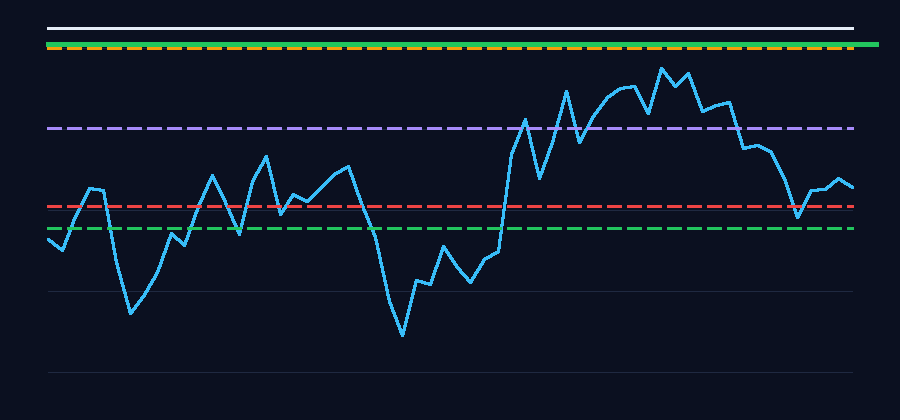
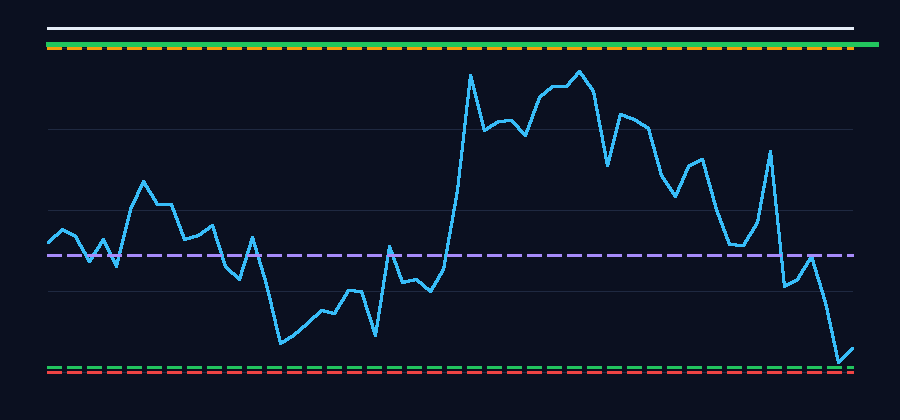
Deploy dashboard from phemex-grid-ai@b7e9593da10271ce2929b4c0a83c37cc3e0da204

Changed region(s): [[0.0311, 0.1548, 0.9644, 0.8976], [0.3422, 0.7429, 0.3733, 0.7738]]

diff --git a/dashboard/index.html b/dashboard/index.html
@@ -134,11 +134,11 @@
       <div class="stats-grid">
         <div class="stat">
           <label>Current Equity</label>
-          <value class="negative">755.07 USDT</value>
+          <value class="negative">739.49 USDT</value>
         </div>
         <div class="stat">
           <label>Total PnL</label>
-          <value class="large negative">-244.93 (-24.5%)</value>
+          <value class="large negative">-260.51 (-26.1%)</value>
         </div>
         <div class="stat">
           <label>Starting</label>
@@ -153,21 +153,21 @@
         <svg viewBox="0 0 400 160" preserveAspectRatio="none">
           <line x1="0" y1="13.3" x2="400" y2="13.3" stroke="#9497a9" stroke-width="1" stroke-dasharray="4,4" opacity="0.5"/>
     <text x="8" y="9.333333333333314" fill="#9497a9" font-size="10">Start: 1000</text>
-    <polygon points="0.0,21.9 18.2,30.4 36.4,38.7 54.5,46.9 72.7,54.7 90.9,62.4 109.1,70.8 127.3,79.1 145.5,87.2 163.6,90.5 181.8,97.7 200.0,104.9 218.2,106.7 236.4,114.2 254.5,114.8 272.7,121.1 290.9,128.6 309.1,131.6 327.3,127.1 345.5,133.6 363.6,140.0 381.8,146.7 400.0,146.7 400,160 0,160" fill="#d92d2022"/>
-    <polyline points="0.0,21.9 18.2,30.4 36.4,38.7 54.5,46.9 72.7,54.7 90.9,62.4 109.1,70.8 127.3,79.1 145.5,87.2 163.6,90.5 181.8,97.7 200.0,104.9 218.2,106.7 236.4,114.2 254.5,114.8 272.7,121.1 290.9,128.6 309.1,131.6 327.3,127.1 345.5,133.6 363.6,140.0 381.8,146.7 400.0,146.7" fill="none" stroke="#d92d20" stroke-width="2.5" stroke-linecap="round" stroke-linejoin="round"/>
+    <polygon points="0.0,21.4 16.7,29.3 33.3,37.2 50.0,44.9 66.7,52.3 83.3,59.5 100.0,67.4 116.7,75.2 133.3,82.8 150.0,85.9 166.7,92.7 183.3,99.4 200.0,101.1 216.7,108.1 233.3,108.7 250.0,114.7 266.7,121.7 283.3,124.5 300.0,120.3 316.7,126.4 333.3,132.4 350.0,138.7 366.7,140.7 383.3,146.7 400.0,146.7 400,160 0,160" fill="#d92d2022"/>
+    <polyline points="0.0,21.4 16.7,29.3 33.3,37.2 50.0,44.9 66.7,52.3 83.3,59.5 100.0,67.4 116.7,75.2 133.3,82.8 150.0,85.9 166.7,92.7 183.3,99.4 200.0,101.1 216.7,108.1 233.3,108.7 250.0,114.7 266.7,121.7 283.3,124.5 300.0,120.3 316.7,126.4 333.3,132.4 350.0,138.7 366.7,140.7 383.3,146.7 400.0,146.7" fill="none" stroke="#d92d20" stroke-width="2.5" stroke-linecap="round" stroke-linejoin="round"/>
         </svg>
       </div>
     </div>
 
     <div class="panel">
       <h2>Open Position</h2>
-      <div class='position-card'><div class='position-row'><div class='position-main'><span class='side-badge '>LONG</span><div class='position-details'><span>Qty: 0.07907735</span><span>Entry: 80,846</span><span>Current: 80,846</span></div></div><span class='position-pnl '>+0.00 (+0.0%)</span></div></div>
+      <div class='position-card'><div class='position-row'><div class='position-main'><span class='side-badge '>LONG</span><div class='position-details'><span>Qty: 0.07106086</span><span>Entry: 81,146</span><span>Current: 81,146</span></div></div><span class='position-pnl '>+0.00 (+0.0%)</span></div></div>
     </div>
 
     <div class="panel">
       <h2>Recent Trades</h2>
       <div class="trades-container">
-        <div class='trade-row'><span class='side negative'>LONG</span><span class='prices'>80,306→80,277</span><span class='pnl negative'>-3.29</span></div><div class='trade-row'><span class='side negative'>LONG</span><span class='prices'>80,936→80,850</span><span class='pnl negative'>-13.71</span></div><div class='trade-row'><span class='side negative'>LONG</span><span class='prices'>80,944→80,942</span><span class='pnl negative'>-1.08</span></div><div class='trade-row'><span class='side negative'>LONG</span><span class='prices'>81,508→81,378</span><span class='pnl negative'>-11.72</span></div><div class='trade-row'><span class='side negative'>LONG</span><span class='prices'>81,387→81,306</span><span class='pnl negative'>-13.63</span></div><div class='trade-row'><span class='side negative'>LONG</span><span class='prices'>81,387→81,346</span><span class='pnl negative'>-5.60</span></div><div class='trade-row'><span class='side positive'>SHORT</span><span class='prices'>81,458→81,004</span><span class='pnl positive'>+8.27</span></div><div class='trade-row'><span class='side negative'>LONG</span><span class='prices'>80,950→80,839</span><span class='pnl negative'>-11.95</span></div><div class='trade-row'><span class='side negative'>LONG</span><span class='prices'>80,950→80,839</span><span class='pnl negative'>-11.77</span></div><div class='trade-row'><span class='side negative'>LONG</span><span class='prices'>80,846→80,751</span><span class='pnl negative'>-12.22</span></div>
+        <div class='trade-row'><span class='side negative'>LONG</span><span class='prices'>80,944→80,942</span><span class='pnl negative'>-1.08</span></div><div class='trade-row'><span class='side negative'>LONG</span><span class='prices'>81,508→81,378</span><span class='pnl negative'>-11.72</span></div><div class='trade-row'><span class='side negative'>LONG</span><span class='prices'>81,387→81,306</span><span class='pnl negative'>-13.63</span></div><div class='trade-row'><span class='side negative'>LONG</span><span class='prices'>81,387→81,346</span><span class='pnl negative'>-5.60</span></div><div class='trade-row'><span class='side positive'>SHORT</span><span class='prices'>81,458→81,004</span><span class='pnl positive'>+8.27</span></div><div class='trade-row'><span class='side negative'>LONG</span><span class='prices'>80,950→80,839</span><span class='pnl negative'>-11.95</span></div><div class='trade-row'><span class='side negative'>LONG</span><span class='prices'>80,950→80,839</span><span class='pnl negative'>-11.77</span></div><div class='trade-row'><span class='side negative'>LONG</span><span class='prices'>80,846→80,751</span><span class='pnl negative'>-12.22</span></div><div class='trade-row'><span class='side negative'>LONG</span><span class='prices'>80,846→80,812</span><span class='pnl negative'>-3.97</span></div><div class='trade-row'><span class='side negative'>LONG</span><span class='prices'>81,146→81,042</span><span class='pnl negative'>-11.61</span></div>
       </div>
     </div>
 
@@ -196,7 +196,7 @@
             </div>
             <div class='metric-item'>
               <label>Expectancy</label>
-              <value class='negative'>-11.1330 USDT</value>
+              <value class='negative'>-10.8544 USDT</value>
             </div>
           </div>
         </div>
@@ -221,11 +221,11 @@
           <div class='metric-grid'>
             <div class='metric-item'>
               <label>Max Drawdown</label>
-              <value class='negative'>+244.93 USDT (24.5%)</value>
+              <value class='negative'>+260.51 USDT (26.1%)</value>
             </div>
             <div class='metric-item'>
               <label>Current Drawdown</label>
-              <value class='negative'>+244.93 USDT (24.5%)</value>
+              <value class='negative'>+260.51 USDT (26.1%)</value>
             </div>
             <div class='metric-item'>
               <label>Recovery Factor</label>
@@ -281,14 +281,14 @@
               <value>0.50% per trade</value>
             </div>
           </div>
-          <p class='muted' style='margin-top: 12px; font-size: 12px;'>Verzamel meer data (22/30 trades). Risico beperkt tot 0.50%.</p>
+          <p class='muted' style='margin-top: 12px; font-size: 12px;'>Verzamel meer data (24/30 trades). Risico beperkt tot 0.50%.</p>
         </div>
       </div>
     </div>
     
 
     <footer>
-      Updated: 2026-05-11 09:02 UTC • Paper only
+      Updated: 2026-05-11 12:52 UTC • Paper only
     </footer>
   </div>
   <script>

diff --git a/index.html b/index.html
@@ -134,11 +134,11 @@
       <div class="stats-grid">
         <div class="stat">
           <label>Current Equity</label>
-          <value class="negative">755.07 USDT</value>
+          <value class="negative">739.49 USDT</value>
         </div>
         <div class="stat">
           <label>Total PnL</label>
-          <value class="large negative">-244.93 (-24.5%)</value>
+          <value class="large negative">-260.51 (-26.1%)</value>
         </div>
         <div class="stat">
           <label>Starting</label>
@@ -153,21 +153,21 @@
         <svg viewBox="0 0 400 160" preserveAspectRatio="none">
           <line x1="0" y1="13.3" x2="400" y2="13.3" stroke="#9497a9" stroke-width="1" stroke-dasharray="4,4" opacity="0.5"/>
     <text x="8" y="9.333333333333314" fill="#9497a9" font-size="10">Start: 1000</text>
-    <polygon points="0.0,21.9 18.2,30.4 36.4,38.7 54.5,46.9 72.7,54.7 90.9,62.4 109.1,70.8 127.3,79.1 145.5,87.2 163.6,90.5 181.8,97.7 200.0,104.9 218.2,106.7 236.4,114.2 254.5,114.8 272.7,121.1 290.9,128.6 309.1,131.6 327.3,127.1 345.5,133.6 363.6,140.0 381.8,146.7 400.0,146.7 400,160 0,160" fill="#d92d2022"/>
-    <polyline points="0.0,21.9 18.2,30.4 36.4,38.7 54.5,46.9 72.7,54.7 90.9,62.4 109.1,70.8 127.3,79.1 145.5,87.2 163.6,90.5 181.8,97.7 200.0,104.9 218.2,106.7 236.4,114.2 254.5,114.8 272.7,121.1 290.9,128.6 309.1,131.6 327.3,127.1 345.5,133.6 363.6,140.0 381.8,146.7 400.0,146.7" fill="none" stroke="#d92d20" stroke-width="2.5" stroke-linecap="round" stroke-linejoin="round"/>
+    <polygon points="0.0,21.4 16.7,29.3 33.3,37.2 50.0,44.9 66.7,52.3 83.3,59.5 100.0,67.4 116.7,75.2 133.3,82.8 150.0,85.9 166.7,92.7 183.3,99.4 200.0,101.1 216.7,108.1 233.3,108.7 250.0,114.7 266.7,121.7 283.3,124.5 300.0,120.3 316.7,126.4 333.3,132.4 350.0,138.7 366.7,140.7 383.3,146.7 400.0,146.7 400,160 0,160" fill="#d92d2022"/>
+    <polyline points="0.0,21.4 16.7,29.3 33.3,37.2 50.0,44.9 66.7,52.3 83.3,59.5 100.0,67.4 116.7,75.2 133.3,82.8 150.0,85.9 166.7,92.7 183.3,99.4 200.0,101.1 216.7,108.1 233.3,108.7 250.0,114.7 266.7,121.7 283.3,124.5 300.0,120.3 316.7,126.4 333.3,132.4 350.0,138.7 366.7,140.7 383.3,146.7 400.0,146.7" fill="none" stroke="#d92d20" stroke-width="2.5" stroke-linecap="round" stroke-linejoin="round"/>
         </svg>
       </div>
     </div>
 
     <div class="panel">
       <h2>Open Position</h2>
-      <div class='position-card'><div class='position-row'><div class='position-main'><span class='side-badge '>LONG</span><div class='position-details'><span>Qty: 0.07907735</span><span>Entry: 80,846</span><span>Current: 80,846</span></div></div><span class='position-pnl '>+0.00 (+0.0%)</span></div></div>
+      <div class='position-card'><div class='position-row'><div class='position-main'><span class='side-badge '>LONG</span><div class='position-details'><span>Qty: 0.07106086</span><span>Entry: 81,146</span><span>Current: 81,146</span></div></div><span class='position-pnl '>+0.00 (+0.0%)</span></div></div>
     </div>
 
     <div class="panel">
       <h2>Recent Trades</h2>
       <div class="trades-container">
-        <div class='trade-row'><span class='side negative'>LONG</span><span class='prices'>80,306→80,277</span><span class='pnl negative'>-3.29</span></div><div class='trade-row'><span class='side negative'>LONG</span><span class='prices'>80,936→80,850</span><span class='pnl negative'>-13.71</span></div><div class='trade-row'><span class='side negative'>LONG</span><span class='prices'>80,944→80,942</span><span class='pnl negative'>-1.08</span></div><div class='trade-row'><span class='side negative'>LONG</span><span class='prices'>81,508→81,378</span><span class='pnl negative'>-11.72</span></div><div class='trade-row'><span class='side negative'>LONG</span><span class='prices'>81,387→81,306</span><span class='pnl negative'>-13.63</span></div><div class='trade-row'><span class='side negative'>LONG</span><span class='prices'>81,387→81,346</span><span class='pnl negative'>-5.60</span></div><div class='trade-row'><span class='side positive'>SHORT</span><span class='prices'>81,458→81,004</span><span class='pnl positive'>+8.27</span></div><div class='trade-row'><span class='side negative'>LONG</span><span class='prices'>80,950→80,839</span><span class='pnl negative'>-11.95</span></div><div class='trade-row'><span class='side negative'>LONG</span><span class='prices'>80,950→80,839</span><span class='pnl negative'>-11.77</span></div><div class='trade-row'><span class='side negative'>LONG</span><span class='prices'>80,846→80,751</span><span class='pnl negative'>-12.22</span></div>
+        <div class='trade-row'><span class='side negative'>LONG</span><span class='prices'>80,944→80,942</span><span class='pnl negative'>-1.08</span></div><div class='trade-row'><span class='side negative'>LONG</span><span class='prices'>81,508→81,378</span><span class='pnl negative'>-11.72</span></div><div class='trade-row'><span class='side negative'>LONG</span><span class='prices'>81,387→81,306</span><span class='pnl negative'>-13.63</span></div><div class='trade-row'><span class='side negative'>LONG</span><span class='prices'>81,387→81,346</span><span class='pnl negative'>-5.60</span></div><div class='trade-row'><span class='side positive'>SHORT</span><span class='prices'>81,458→81,004</span><span class='pnl positive'>+8.27</span></div><div class='trade-row'><span class='side negative'>LONG</span><span class='prices'>80,950→80,839</span><span class='pnl negative'>-11.95</span></div><div class='trade-row'><span class='side negative'>LONG</span><span class='prices'>80,950→80,839</span><span class='pnl negative'>-11.77</span></div><div class='trade-row'><span class='side negative'>LONG</span><span class='prices'>80,846→80,751</span><span class='pnl negative'>-12.22</span></div><div class='trade-row'><span class='side negative'>LONG</span><span class='prices'>80,846→80,812</span><span class='pnl negative'>-3.97</span></div><div class='trade-row'><span class='side negative'>LONG</span><span class='prices'>81,146→81,042</span><span class='pnl negative'>-11.61</span></div>
       </div>
     </div>
 
@@ -196,7 +196,7 @@
             </div>
             <div class='metric-item'>
               <label>Expectancy</label>
-              <value class='negative'>-11.1330 USDT</value>
+              <value class='negative'>-10.8544 USDT</value>
             </div>
           </div>
         </div>
@@ -221,11 +221,11 @@
           <div class='metric-grid'>
             <div class='metric-item'>
               <label>Max Drawdown</label>
-              <value class='negative'>+244.93 USDT (24.5%)</value>
+              <value class='negative'>+260.51 USDT (26.1%)</value>
             </div>
             <div class='metric-item'>
               <label>Current Drawdown</label>
-              <value class='negative'>+244.93 USDT (24.5%)</value>
+              <value class='negative'>+260.51 USDT (26.1%)</value>
             </div>
             <div class='metric-item'>
               <label>Recovery Factor</label>
@@ -281,14 +281,14 @@
               <value>0.50% per trade</value>
             </div>
           </div>
-          <p class='muted' style='margin-top: 12px; font-size: 12px;'>Verzamel meer data (22/30 trades). Risico beperkt tot 0.50%.</p>
+          <p class='muted' style='margin-top: 12px; font-size: 12px;'>Verzamel meer data (24/30 trades). Risico beperkt tot 0.50%.</p>
         </div>
       </div>
     </div>
     
 
     <footer>
-      Updated: 2026-05-11 09:02 UTC • Paper only
+      Updated: 2026-05-11 12:52 UTC • Paper only
     </footer>
   </div>
   <script>
